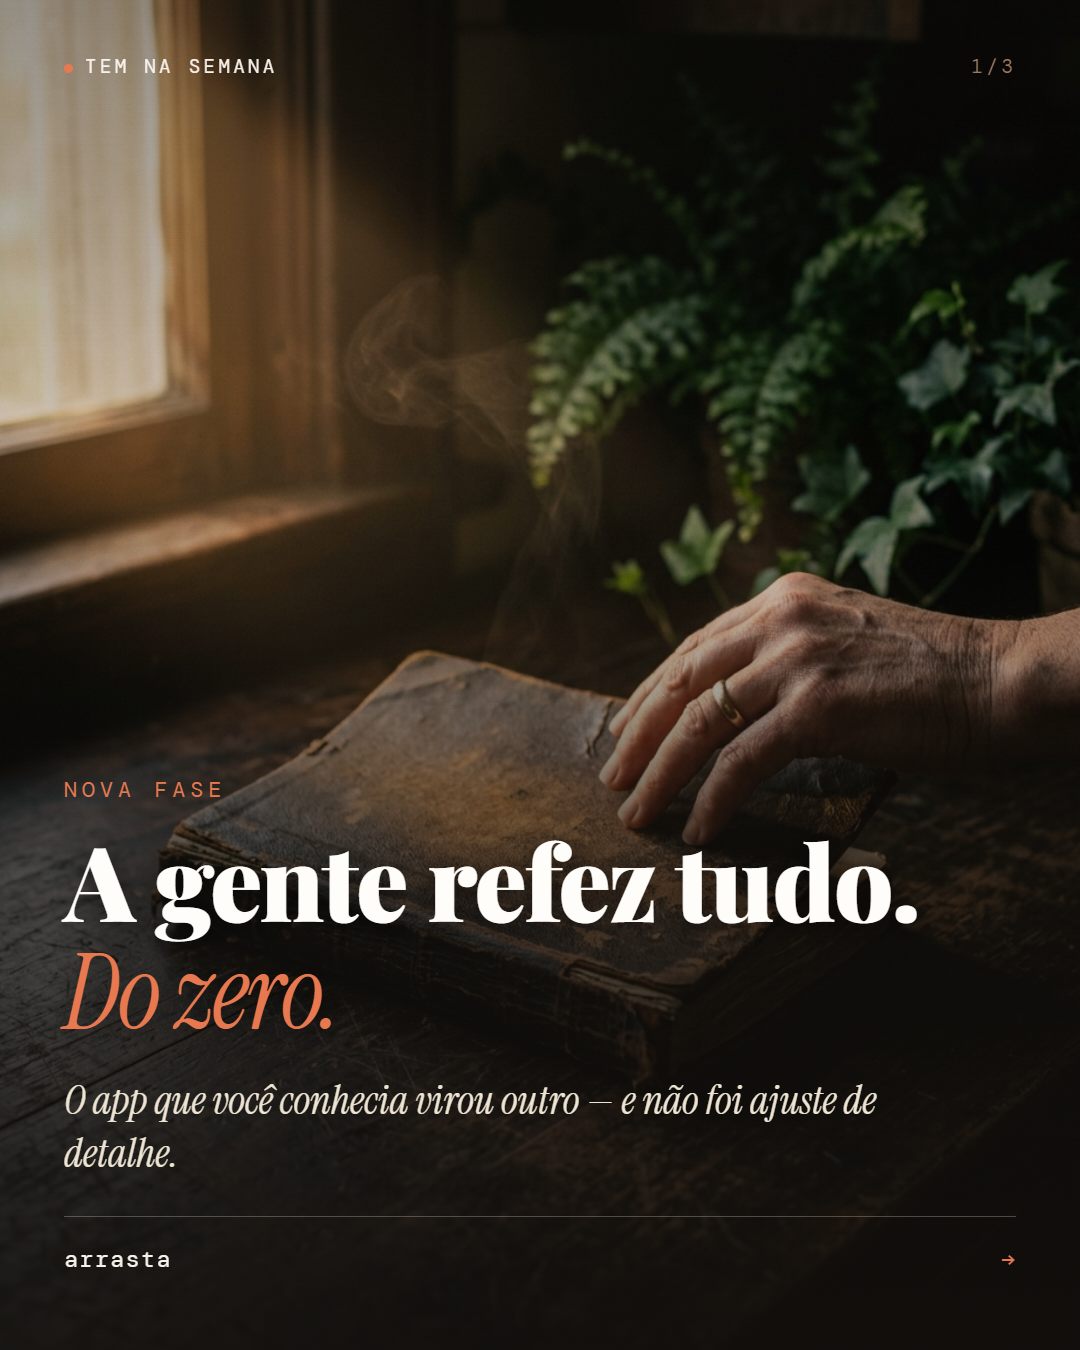
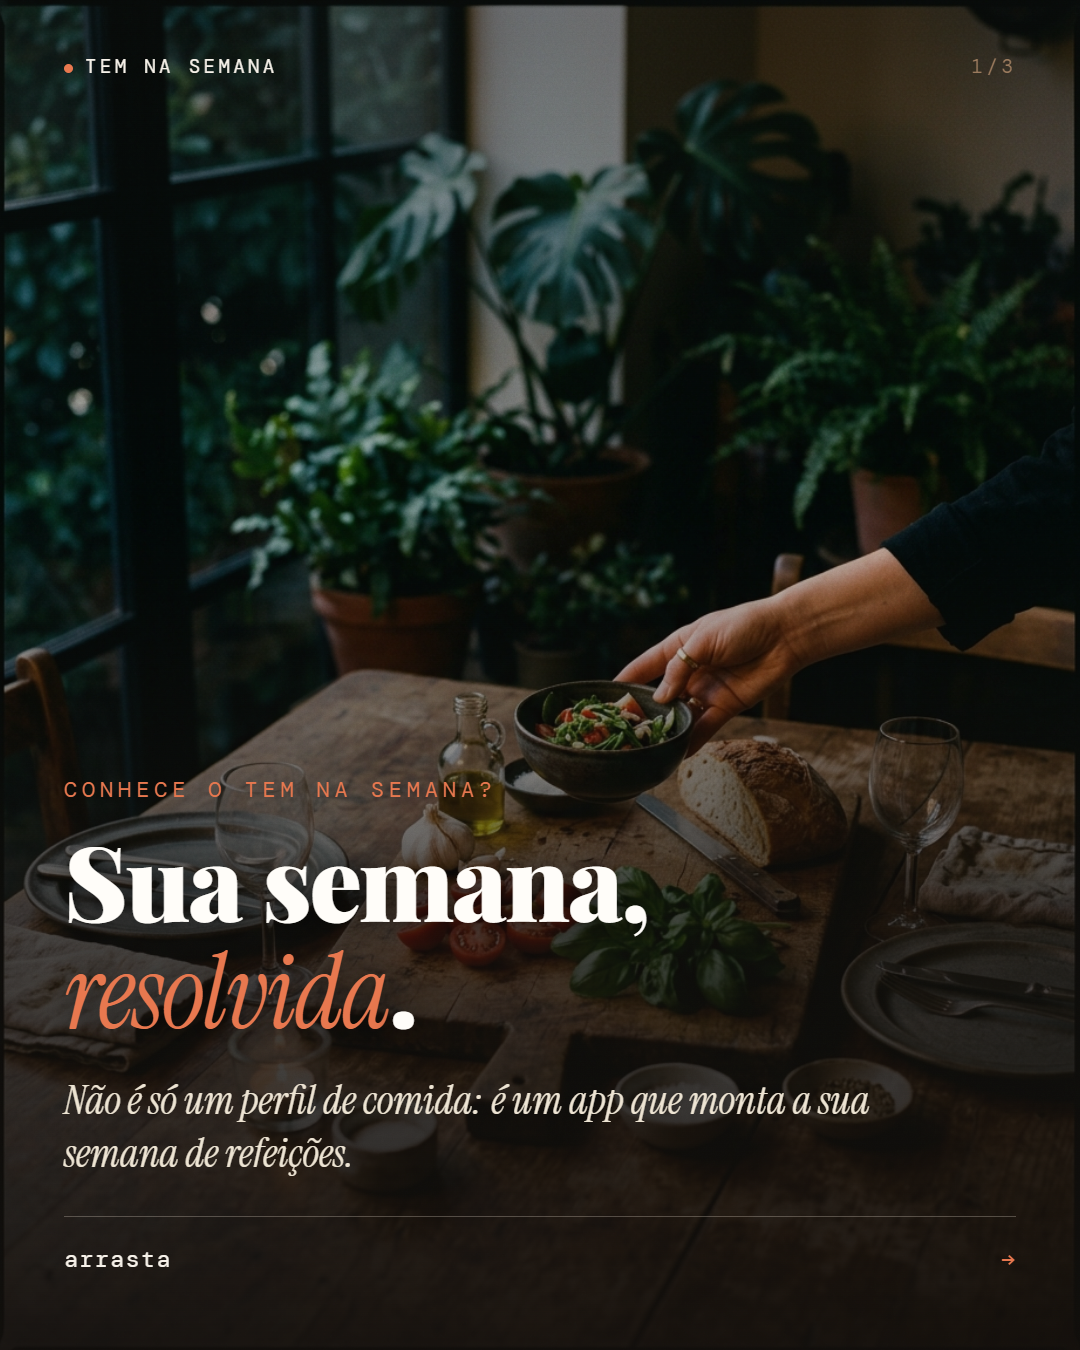
fix: anuncio reescrito para produto/beneficio (feedback do Davi)
Post fixo e porta de entrada: comunica O QUE o app faz, nao a reforma.
- Slide 1: 'Sua semana, resolvida' (mesa posta) — deixa claro que e um app
- Slide 2: 'Escolhe um cardapio, a semana monta em minutos' + 486/7
- Slide 3: 'A lista de compras sai junto' (cesta de feira) + comenta NOVA
Fora: 'refizemos do zero', '45 dias', 'reconstrucao', imagem do livro.
generate-image.js agora preserva o fundo cru (bg-0N.png) — trocar texto
depois nao exige regerar imagem.

diff --git a/scripts/generate-image.js b/scripts/generate-image.js
@@ -173,8 +173,10 @@ async function processItem(config, browser = null) {
 
       if (overlays[i]) {
         if (!browser) throw new Error('item tem overlays mas o navegador não foi aberto');
+        // Guarda o fundo cru: trocar o TEXTO depois não exige regerar a imagem
+        fs.writeFileSync(path.join(outDir, `bg-0${i + 1}.png`), buf);
         buf = await comporSlide(buf, overlays[i], browser);
-        console.log(`     ✎ overlay aplicado`);
+        console.log(`     ✎ overlay aplicado (fundo cru em bg-0${i + 1}.png)`);
       }
 
       const sp = path.join(outDir, `slide-0${i + 1}.png`);
